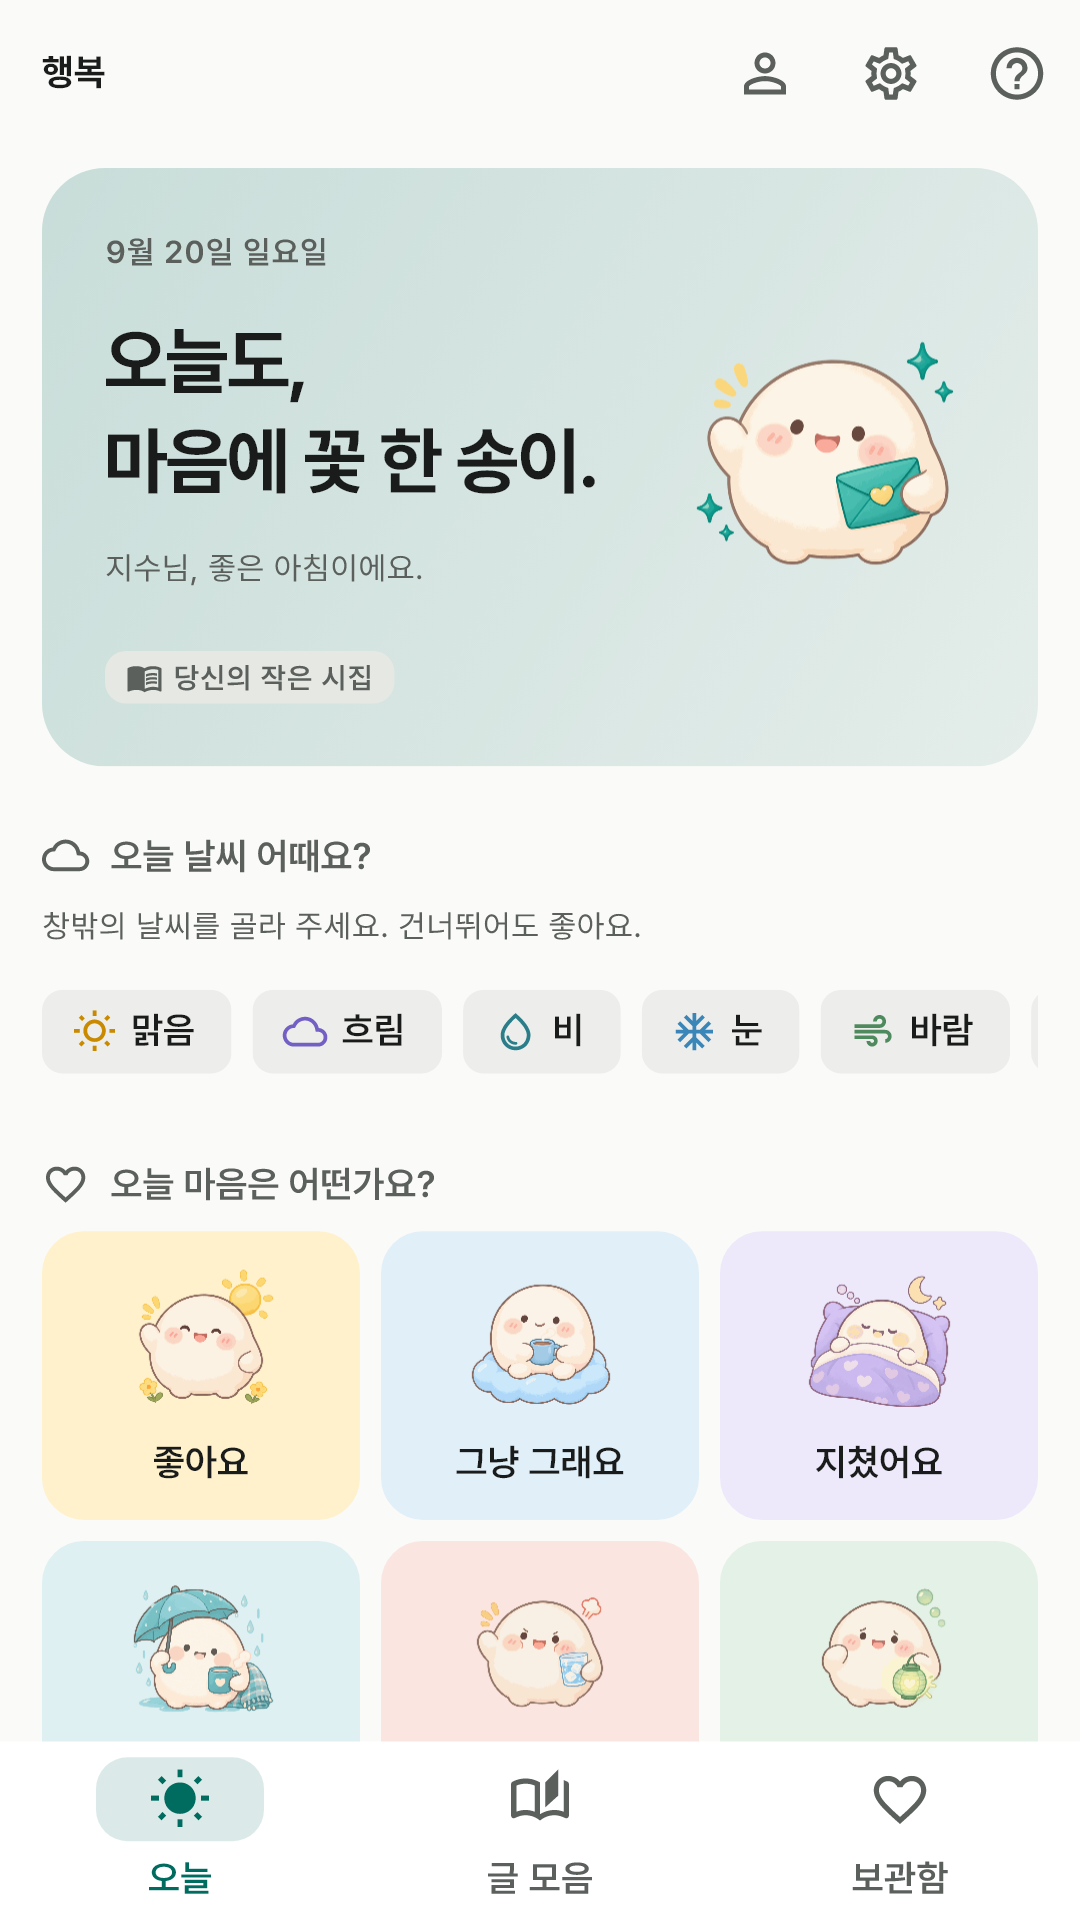
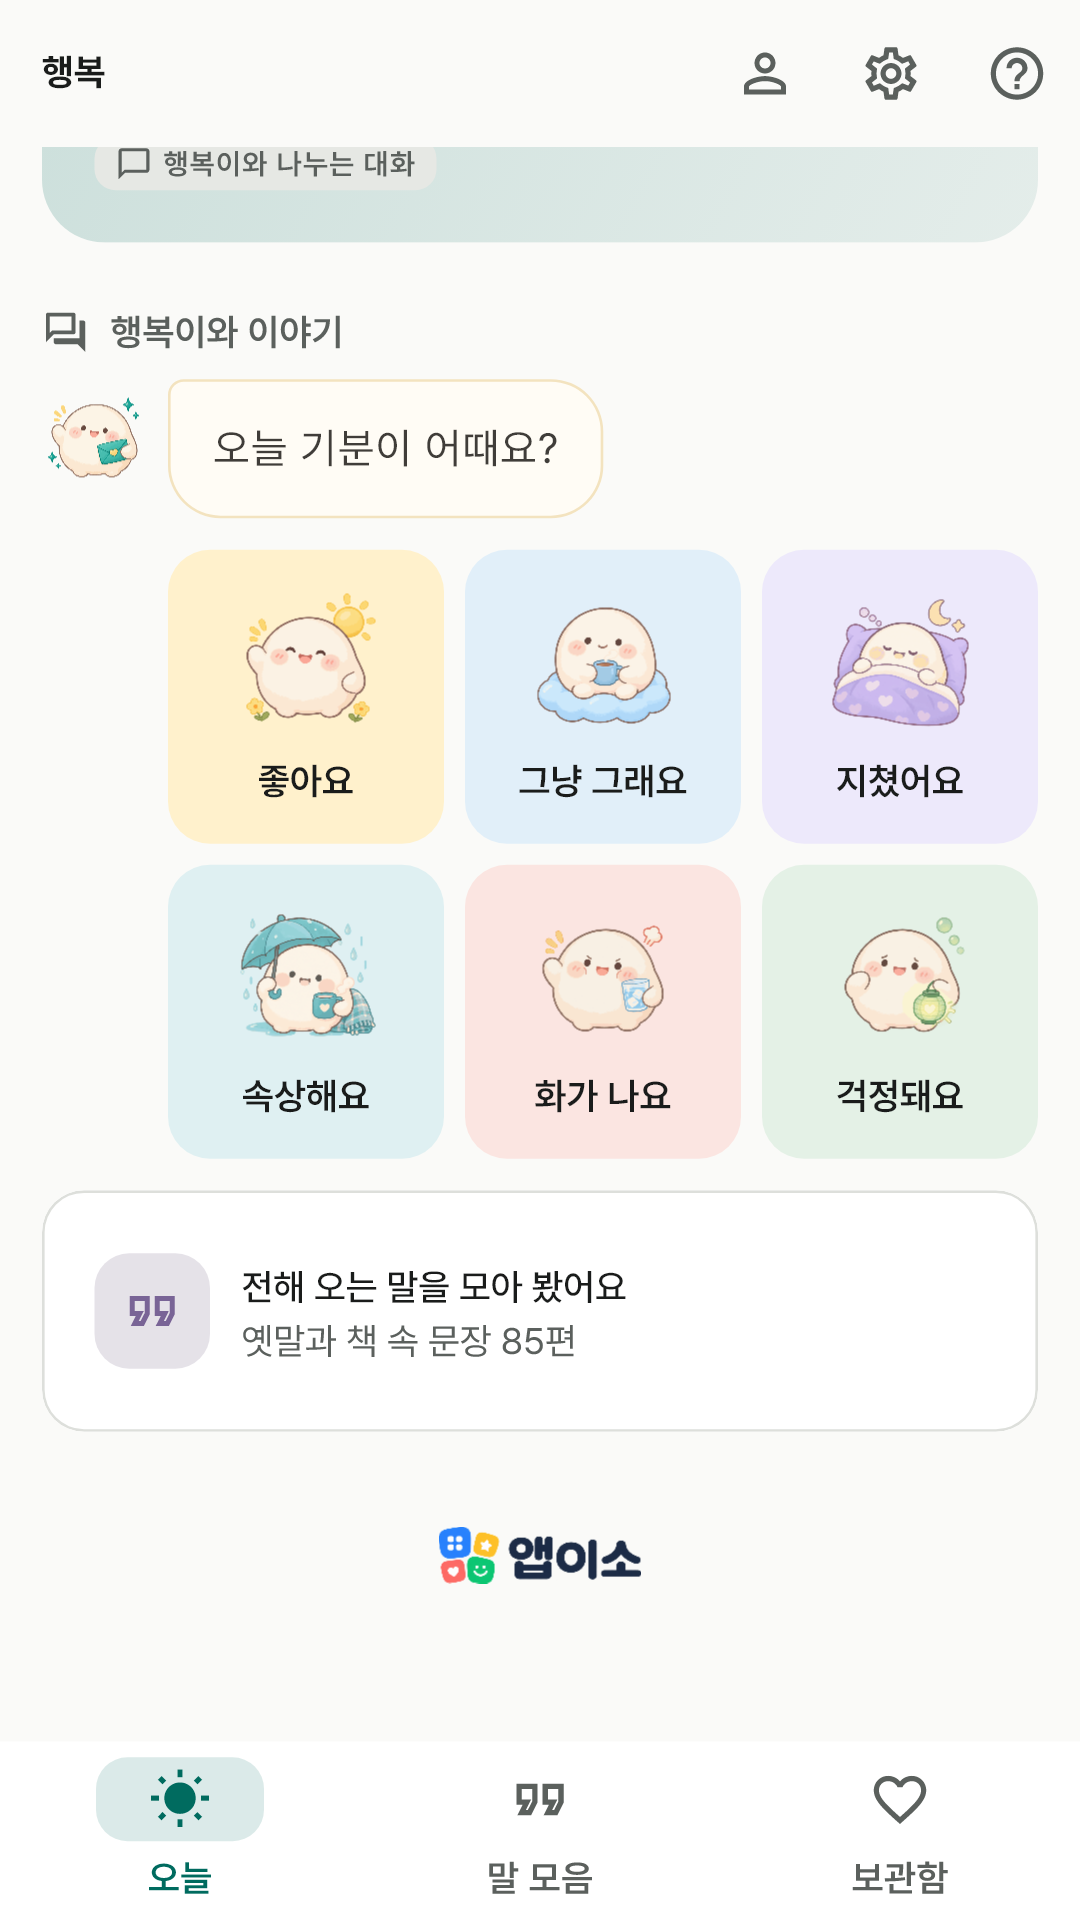
행복 소개 페이지: 대화 개편 문구·스크린샷·방침 반영

diff --git a/happy/index.html b/happy/index.html
@@ -49,7 +49,7 @@
   <!-- 아이콘은 store/play-store-icon-512.png의 사본이다 — tool/publish_pages.ps1이 pages/happy/icon-512.png로 복사한다. -->
   <img src="./icon-512.png" alt="앱이소 행복 아이콘" onerror="this.style.display='none'">
   <h1>앱이소 행복</h1>
-  <p class="tagline">당신의 하루에, 다정한 한 페이지.</p>
+  <p class="tagline">당신의 하루에, 다정한 한마디.</p>
 </header>
 
 <!-- 스토어에 공개되면: 아래 <span class="store-badge">…</span> 줄과 .store-note 문단을 지우고,
@@ -65,42 +65,39 @@
 
 <div class="box">
   광고 없이 <strong>완전 무료</strong>입니다. 결제도, 로그인도, 계정도 없습니다.
-  시와 문장, 그림이 앱에 들어 있어 <strong>인터넷 없이 읽을 수 있습니다.</strong>
-  인용의 원문도 앱 안에서 볼 수 있고, 출처 웹페이지를 열 때는 외부 브라우저와 인터넷 연결을 사용해요.
+  말과 그림이 모두 앱에 들어 있어 <strong>인터넷 없이 쓸 수 있습니다.</strong>
 </div>
 
 <h2>이런 앱이에요</h2>
 <p>
-  빗소리를 듣는 오후에도, 작은 기쁨이 찾아온 아침에도 곁에 두고 싶은 문장이 있습니다.
-  앱이소 행복은 오늘의 기분과 창밖 날씨에 어울리는 시와 문장을 건네는 앱입니다.
-  종이처럼 편안한 카드와 다정한 모찌 그림을 따라, 읽고 싶은 만큼 천천히 펼쳐 보세요.
+  화가 나는데 하늘은 얄밉게 맑은 날, 속상한데 비까지 오는 날.
+  앱이소 행복은 오늘의 기분과 창밖 날씨를 물어보고, 그 둘을 합쳐 대화하듯 말을 건네는 앱입니다.
+  다정한 모찌 그림과 종이색 말풍선을 따라, 듣고 싶은 만큼 머물러 보세요.
 </p>
 
 <h2>이런 걸 할 수 있어요</h2>
 <ul>
-  <li><strong>오늘의 다섯 편, 그리고 더 읽기</strong> — 좋아요 · 그냥 그래요 · 지쳤어요 · 속상해요 · 화가 나요 · 걱정돼요.
-    여섯 기분 중 하나를 고르면 다섯 편을 추천해요. [다섯 편 더 읽기]로 하루 제한 없이 이어 읽을 수 있어요.
-    추천은 아직 받지 않은 글을 우선하고, 현재 조건에 맞는 글을 모두 읽으면 다시 돌아요.</li>
-  <li><strong>창밖 날씨에 어울리는 글</strong> — 맑음 · 흐림 · 비 · 눈 · 바람 · 더위 중에서 직접 골라 주세요.
-    건너뛰어도 괜찮아요. 날씨를 바꾸면 다섯 편을 새로 추천하고 다음 날에는 다시 고를 수 있어요.
+  <li><strong>두 가지만 물어봐요</strong> — "오늘 기분이 어때요?"에 좋아요 · 그냥 그래요 · 지쳤어요 · 속상해요 · 화가 나요 · 걱정돼요 중
+    하나로 답하면, 이어서 "오늘 날씨는 어떤가요?"를 물어요. 맑음 · 흐림 · 비 · 눈 · 바람 · 더위 중 창밖에 가까운 것을 골라 주세요.
     위치나 자동 예보를 사용하지 않아요.</li>
-  <li><strong>시·산문·인용 1,212편</strong> — 직접 쓴 시와 짧은 산문 1,200편, 오래된 작품에서 고른 인용 12편을 담았어요.
-    인용에는 저자와 작품, 원문과 원전 출처를 함께 밝히고 직접 한국어로 옮겼어요.</li>
-  <li><strong>글 모음에서 자유롭게</strong> — 제목·문장·작가로 검색하거나 시·산문·인용, 기분, 날씨로 골라 읽어요.
-    프로필과 관계없이 모든 글을 둘러볼 수 있어요.</li>
+  <li><strong>행복이가 건네는 네 마디</strong> — 지금 마음과 오늘 날씨를 알아주는 첫마디, 옛말과 책 속 문장 한 줄,
+    날씨의 힘을 빌려 볼 수 있는 작은 제안, 그리고 마지막 한마디. 나이대와 일상을 알려 주면 그 상황에 맞는 말이 섞여요.</li>
+  <li><strong>듣고 싶은 만큼</strong> — [다른 말도 들려줘요]로 횟수 제한 없이 이어 들어요. 아직 듣지 않은 말부터 고르고
+    다 들었으면 처음부터 다시 돌아요. 기분이 바뀌면 처음부터, 날씨만 바뀌면 그 자리에서 새 말을 들어요.</li>
+  <li><strong>말 모음</strong> — 대화에 나오는 옛말·격언·책 속 문장을 전부 모아 두었어요. 문장이나 말한 사람으로 검색하고
+    기분별로 골라 읽어요. 출처를 확인할 수 없는 문장은 "전해 오는 말"로 표시해요.</li>
   <li><strong>언제든 고치는 프로필</strong> — 별명·나이대·성별·일상은 모두 선택 사항이에요.
-    나이대와 일상을 고르면 그에 맞는 글도 추천해요. 홈 오른쪽 위에서 수정하면 오늘의 다섯 편에 바로 반영되고,
-    보관함에 담은 글은 그대로 남아요.</li>
-  <li><strong>마음에 남는 글은 보관함에</strong> — 하트로 담아 두고 다시 읽어요. 제목과 문장, 저자와 출처를 담아
+    홈 오른쪽 위에서 수정하면 오늘의 대화에 바로 반영되고, 보관함에 담은 말은 그대로 남아요.</li>
+  <li><strong>마음에 남는 말은 보관함에</strong> — 하트로 네 마디를 통째로 담아 두고 다시 읽어요. 출처와 함께
     메신저나 메모 앱으로 공유할 수도 있어요.</li>
-  <li><strong>그림 스물다섯 장</strong> — 모찌가 기분에 어울리는 모습으로 함께해요. 따뜻한 종이색 카드에 문장을 담았어요.</li>
+  <li><strong>그림 스물다섯 장</strong> — 말을 건네는 모찌가 기분에 어울리는 모습으로 함께해요.</li>
   <li><strong>밝게 · 어둡게</strong> — 시스템 설정을 따르거나 직접 고를 수 있어요. 밤에 열어도 눈이 부시지 않아요.</li>
 </ul>
 
 <h2>이 앱이 하지 않는 것</h2>
 <ul>
-  <li>기분을 날짜별로 기록하거나 그래프로 보여주지 않아요. 오늘 읽는 글과 직접 담은 보관함을 남겨요.</li>
-  <li>글을 읽는 횟수나 속도를 정하지 않아요. 자기에게 편한 만큼 머물면 됩니다.</li>
+  <li>기분을 날짜별로 기록하거나 그래프로 보여주지 않아요. 오늘의 대화와 직접 담은 보관함만 남겨요.</li>
+  <li>듣는 횟수나 속도를 정하지 않아요. 자기에게 편한 만큼 머물면 됩니다.</li>
   <li>알림을 보내지 않아요. 생각날 때 열면 됩니다.</li>
 </ul>
 
@@ -109,11 +106,11 @@
      (flutter test --update-goldens tool/screenshots/store_screenshot_test.dart)
      tool/publish_pages.ps1로 복사한다. 캡션은 store/play-listing.md "스크린샷 순서와 설명" 표와 맞춘다. -->
 <section class="shots">
-<figure><img src="shots/01-mood.png" alt="오늘 홈 — 기분과 창밖 날씨를 고르고 글을 만나는 화면" loading="lazy"><figcaption>오늘의 기분과 창밖 날씨.</figcaption></figure>
-<figure><img src="shots/02-tired.png" alt="비 오는 날에 어울리는 창작 시 읽기" loading="lazy"><figcaption>비 오는 날, 시 한 편에 머물러요.</figcaption></figure>
-<figure><img src="shots/03-good.png" alt="휘트먼 인용 — 한국어로 옮긴 문장과 저자·작품·원문·출처" loading="lazy"><figcaption>오래된 문장, 원문과 출처까지.</figcaption></figure>
-<figure><img src="shots/04-worried.png" alt="글 모음 — 검색과 종류·기분·날씨 필터" loading="lazy"><figcaption>1,212편에서 오늘의 문장을 찾아요.</figcaption></figure>
-<figure><img src="shots/05-favorites.png" alt="보관함 — 하트로 담아 둔 글 목록" loading="lazy"><figcaption>마음에 남는 글은 보관함에.</figcaption></figure>
+<figure><img src="shots/01-mood.png" alt="오늘 홈 — 오늘 기분이 어때요? 물음과 여섯 기분 타일" loading="lazy"><figcaption>오늘 기분이 어때요?</figcaption></figure>
+<figure><img src="shots/02-weather.png" alt="기분에 답하면 이어지는 오늘 날씨는 어떤가요? 물음과 여섯 날씨 타일" loading="lazy"><figcaption>이어서, 오늘 날씨는 어떤가요?</figcaption></figure>
+<figure><img src="shots/03-talk.png" alt="화가 나요와 맑음을 합쳐 행복이가 건네는 네 마디 말풍선" loading="lazy"><figcaption>둘을 합쳐 건네는 네 마디.</figcaption></figure>
+<figure><img src="shots/04-sayings.png" alt="말 모음 — 옛말·격언·책 속 문장을 기분별로 찾아 읽기" loading="lazy"><figcaption>대화에 나오는 오래된 말들.</figcaption></figure>
+<figure><img src="shots/05-favorites.png" alt="보관함 — 하트로 담아 둔 말" loading="lazy"><figcaption>마음에 남는 말은 보관함에.</figcaption></figure>
 <figure><img src="shots/06-start.png" alt="첫 화면 — 모두 선택 사항인 별명·나이대·성별·일상 입력" loading="lazy"><figcaption>비워 둬도 괜찮고, 나중에 고쳐도 돼요.</figcaption></figure>
 </section>
 <p>화면에 보이는 이름과 인사말, 날짜는 기능을 설명하기 위한 예시입니다.</p>
@@ -121,8 +118,8 @@
 <h2>개인정보</h2>
 <p>
   이 앱에는 회원가입이 없고 개발자에게 개인정보를 전송하지 않습니다.
-  별명·나이대·성별·일상은 선택해서 입력하며, 기분과 날씨는 오늘 읽을 글을 고르는 데 사용해요.
-  기분을 날짜별로 모으거나 위치를 알아내지 않아요. 프로필·오늘의 글·선택 날씨·보관함과 받은 글 ID,
+  별명·나이대·성별·일상은 선택해서 입력하며, 기분과 날씨는 오늘 건넬 말을 고르는 데 사용해요.
+  기분을 날짜별로 모으거나 위치를 알아내지 않아요. 프로필·오늘의 대화·선택 날씨·보관함과 받은 말 조각 ID,
   만남 횟수·마지막 만난 날짜·테마 설정은 휴대폰에 저장됩니다.
   폰을 바꿀 때 보관함이 따라오도록 구글 계정 자동 백업은 켜 두었어요 — 백업은 안드로이드가
   사용자 계정으로 하는 기능이고, 개발자는 그 내용을 받지 않습니다. 자세한 내용은

diff --git a/happy/privacy.html b/happy/privacy.html
@@ -2,8 +2,8 @@
 <html lang="ko"><head><meta charset="utf-8"><meta name="viewport" content="width=device-width,initial-scale=1"><title>앱이소 행복 개인정보처리방침</title>
 <style>body{font:16px/1.8 system-ui,sans-serif;max-width:720px;margin:auto;padding:40px 24px;color:#20312b;background:#fafaf8}h1{font-size:28px}h2{font-size:20px;margin-top:32px}a{color:#00796b}</style></head><body>
 <h1>앱이소 행복 개인정보처리방침</h1><p>시행일: 2026년 9월 20일</p>
-<h2>1. 기기에 저장하는 정보</h2><p>사용자가 선택적으로 입력한 나이대·성별·일상과 별명, 직접 선택한 오늘의 날씨, 오늘 펼친 글들, 보관함에 담은 이야기, 이야기를 받은 날의 수, 화면 테마 설정을 앱 전용 저장소에 보관합니다. 고른 기분은 그날 들려줄 이야기를 고르는 데만 쓰며 날짜별로 기록하거나 모아서 보여주지 않습니다. 날씨는 직접 고른 값만 사용하며 위치나 기상 정보를 조회하지 않습니다. 날씨와 오늘의 글은 날짜가 바뀌면 화면에서 제외하고 다음 저장 시 정리합니다. 개발자 서버가 없으며 입력한 내용을 개발자에게 전송하지 않습니다. 가입, 로그인, 광고, 결제, 분석·크래시 수집 SDK를 사용하지 않고 인터넷 권한도 요청하지 않습니다.</p>
-<h2>2. 권한과 공유</h2><p>이 앱은 Android 권한을 요청하지 않습니다. 연락처, 위치, 사진, 마이크, 알림 등 어떤 권한도 쓰지 않습니다. 사용자가 이야기 카드의 공유 버튼을 누르면 Android 공유 화면이 열리고, 사용자가 고른 앱으로 그 글의 제목·본문·저자 및 출처 링크가 전달됩니다. 이 과정은 사용자가 누를 때만 일어나며 앱이 스스로 무엇도 보내지 않습니다.</p>
+<h2>1. 기기에 저장하는 정보</h2><p>사용자가 선택적으로 입력한 나이대·성별·일상과 별명, 직접 선택한 오늘의 날씨, 오늘 나눈 대화(앱이 건넨 말), 보관함에 담은 말, 말을 받은 날의 수, 화면 테마 설정을 앱 전용 저장소에 보관합니다. 고른 기분은 그날 건넬 말을 고르는 데만 쓰며 날짜별로 기록하거나 모아서 보여주지 않습니다. 날씨는 직접 고른 값만 사용하며 위치나 기상 정보를 조회하지 않습니다. 날씨와 오늘의 대화는 날짜가 바뀌면 화면에서 제외하고 다음 저장 시 정리합니다. 개발자 서버가 없으며 입력한 내용을 개발자에게 전송하지 않습니다. 가입, 로그인, 광고, 결제, 분석·크래시 수집 SDK를 사용하지 않고 인터넷 권한도 요청하지 않습니다.</p>
+<h2>2. 권한과 공유</h2><p>이 앱은 Android 권한을 요청하지 않습니다. 연락처, 위치, 사진, 마이크, 알림 등 어떤 권한도 쓰지 않습니다. 사용자가 말풍선 아래 공유 버튼을 누르면 Android 공유 화면이 열리고, 사용자가 고른 앱으로 그 편의 네 마디와 전해 오는 말의 출처 표기가 전달됩니다. 이 과정은 사용자가 누를 때만 일어나며 앱이 스스로 무엇도 보내지 않습니다.</p>
 <h2>3. 백업과 삭제</h2><p>Android 자동 백업이 켜져 있으면 앱 데이터가 사용자 본인의 Google 계정 백업에 포함될 수 있습니다. 백업은 Android 플랫폼 기능이며 개발자는 그 내용을 받지 않습니다. 옵션의 [모두 지우고 처음부터]로 프로필과 보관함을 포함한 모든 데이터를 앱 안에서 직접 삭제할 수 있고, 앱 제거 또는 데이터 삭제 시에도 삭제됩니다.</p>
-<h2>4. 외부 링크</h2><p>인용문의 원전 출처, 소개 페이지, 온라인 개인정보처리방침과 문의 메일은 사용자가 누를 때 외부 브라우저 또는 메일 앱에서 열립니다. 외부 서비스에는 해당 서비스의 정책이 적용됩니다.</p>
+<h2>4. 외부 링크</h2><p>소개 페이지, 온라인 개인정보처리방침과 문의 메일은 사용자가 누를 때 외부 브라우저 또는 메일 앱에서 열립니다. 외부 서비스에는 해당 서비스의 정책이 적용됩니다.</p>
 <h2>5. 문의</h2><p><a href="mailto:appisoLabs@gmail.com">appisoLabs@gmail.com</a></p></body></html>
